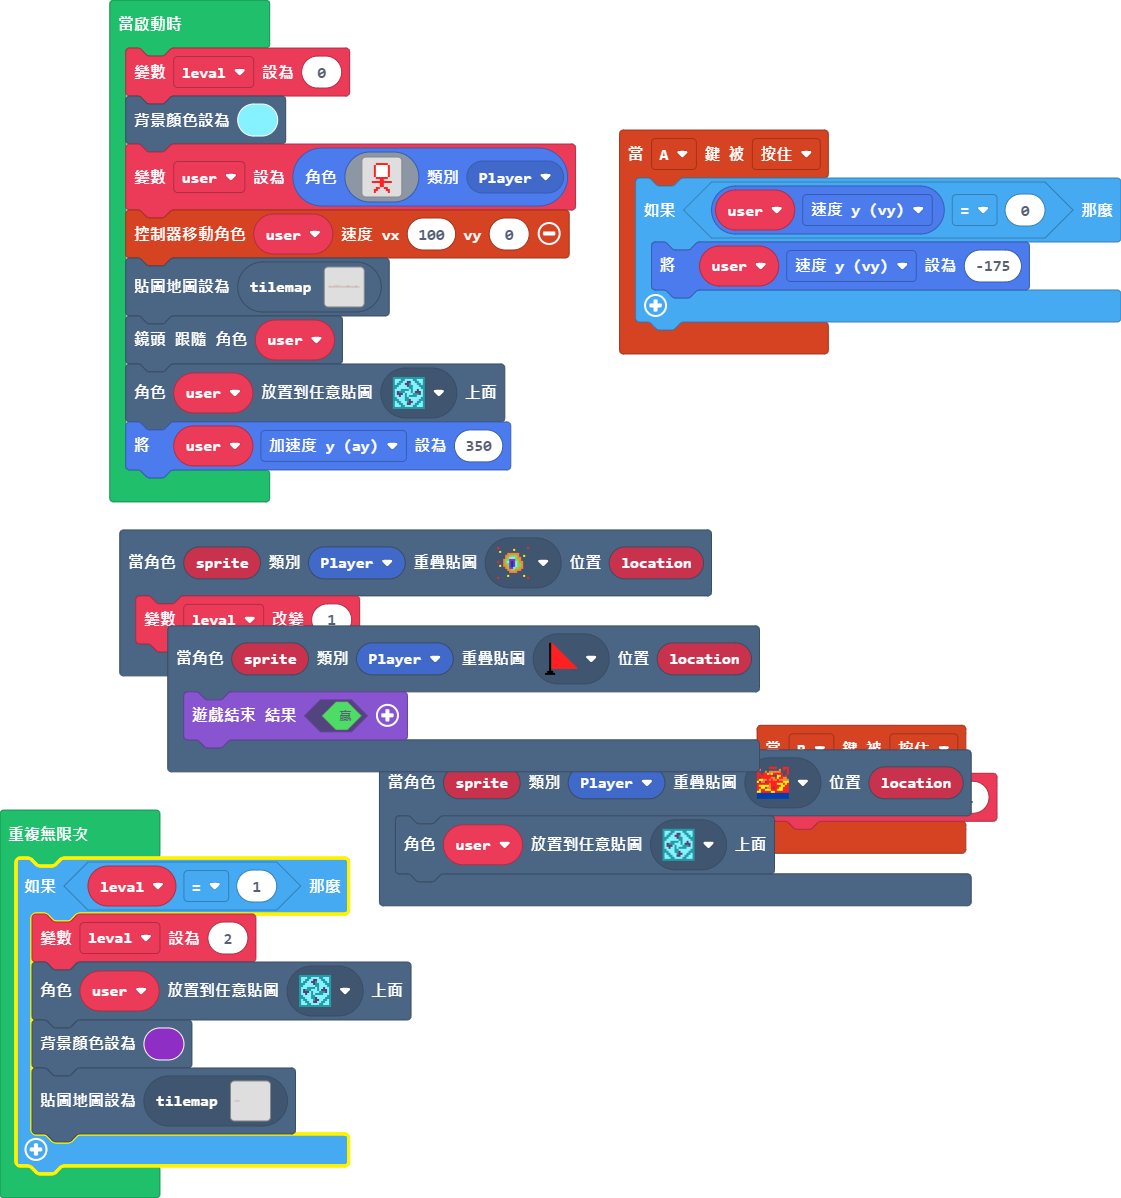
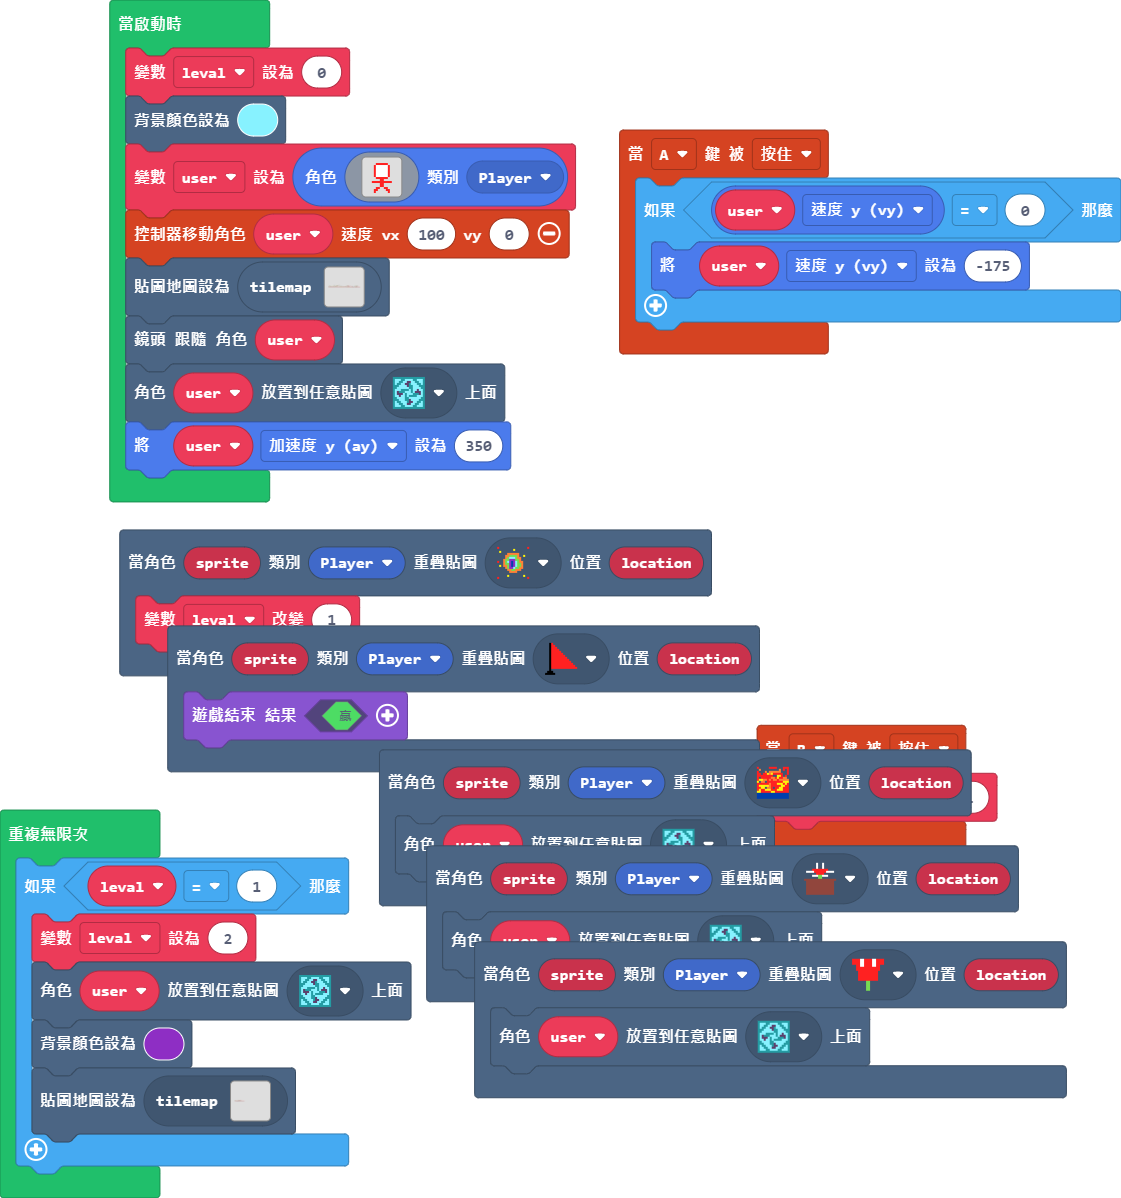
map 2 update

diff --git a/tilemap.g.ts b/tilemap.g.ts
@@ -30,6 +30,12 @@ namespace myTiles {
     export const tile14 = image.ofBuffer(hex``);
     //% fixedInstance jres blockIdentity=images._tile
     export const tile15 = image.ofBuffer(hex``);
+    //% fixedInstance jres blockIdentity=images._tile
+    export const tile13 = image.ofBuffer(hex``);
+    //% fixedInstance jres blockIdentity=images._tile
+    export const tile16 = image.ofBuffer(hex``);
+    //% fixedInstance jres blockIdentity=images._tile
+    export const tile17 = image.ofBuffer(hex``);
 
     helpers._registerFactory("tilemap", function(name: string) {
         switch(helpers.stringTrim(name)) {
@@ -72,7 +78,7 @@ namespace myTiles {
 ...............................................................................................................................................................................................................................................................
 `, [myTiles.transparency16,myTiles.tile1,myTiles.tile2,sprites.dungeon.collectibleInsignia,myTiles.tile3,myTiles.tile4,myTiles.tile5,myTiles.tile7,myTiles.tile8,myTiles.tile9,myTiles.tile10,myTiles.tile11,myTiles.tile12], TileScale.Sixteen);
             case "層級3":
[2 lines of base64/hex data omitted]
 ...............................................................................................................................................................................................................................................................
 ...............................................................................................................................................................................................................................................................
 ...............................................................................................................................................................................................................................................................
@@ -84,12 +90,12 @@ namespace myTiles {
 ...............................................................................................................................................................................................................................................................
 .................................22............................................................................................................................................................................................................................
 ...............................2...............................................................................................................................................................................................................................
-2222222222222................2.................................................................................................................................................................................................................................
-...............................................................................................................................................................................................................................................................
-......................222222...................................................................................................................................................................................................................................
+2222222222222................2....2.....222222222222...........................................................................................................................................................................................................
+..................................2....22......................................................................................................................................................................................................................
+......................222222......2222222......................................................................................................................................................................................................................
 ...............................................................................................................................................................................................................................................................
 .....................2.........................................................................................................................................................................................................................................
-`, [myTiles.transparency16,myTiles.tile2,myTiles.tile12,myTiles.tile15,sprites.dungeon.collectibleInsignia,myTiles.tile10], TileScale.Sixteen);
+`, [myTiles.transparency16,myTiles.tile2,myTiles.tile12,myTiles.tile15,sprites.dungeon.collectibleInsignia,myTiles.tile10,myTiles.tile4,myTiles.tile13,myTiles.tile16,myTiles.tile17], TileScale.Sixteen);
         }
         return null;
     })
@@ -125,6 +131,12 @@ namespace myTiles {
             case "tile14":return tile14;
             case "我的貼圖13":
             case "tile15":return tile15;
+            case "我的貼圖11":
+            case "tile13":return tile13;
+            case "我的貼圖14":
+            case "tile16":return tile16;
+            case "我的貼圖15":
+            case "tile17":return tile17;
         }
         return null;
     })

diff --git a/main.ts b/main.ts
@@ -1,3 +1,6 @@
+scene.onOverlapTile(SpriteKind.Player, assets.tile`我的貼圖11`, function (sprite, location) {
+    tiles.placeOnRandomTile(user, sprites.dungeon.collectibleInsignia)
+})
 controller.A.onEvent(ControllerButtonEvent.Pressed, function () {
     if (user.vy == 0) {
         user.vy = -175
@@ -14,6 +17,9 @@ scene.onOverlapTile(SpriteKind.Player, assets.tile`我的貼圖0`, function (spr
 })
 controller.B.onEvent(ControllerButtonEvent.Pressed, function () {
     leval += 1
+})
+scene.onOverlapTile(SpriteKind.Player, assets.tile`我的貼圖15`, function (sprite, location) {
+    tiles.placeOnRandomTile(user, sprites.dungeon.collectibleInsignia)
 })
 let user: Sprite = null
 let leval = 0
